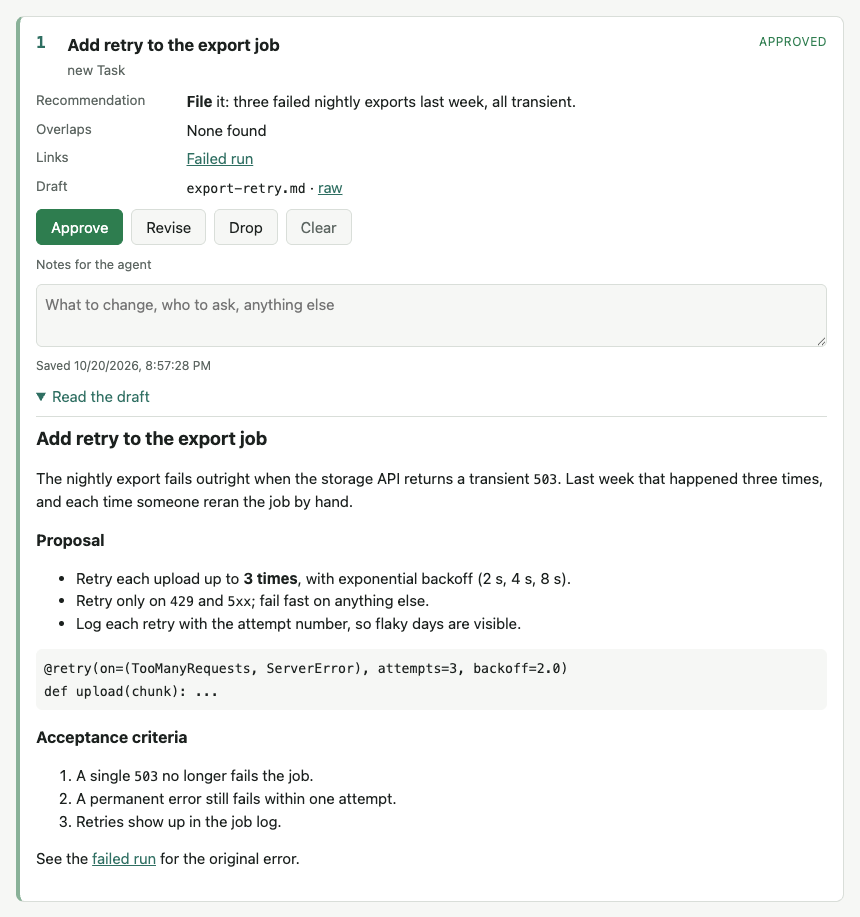
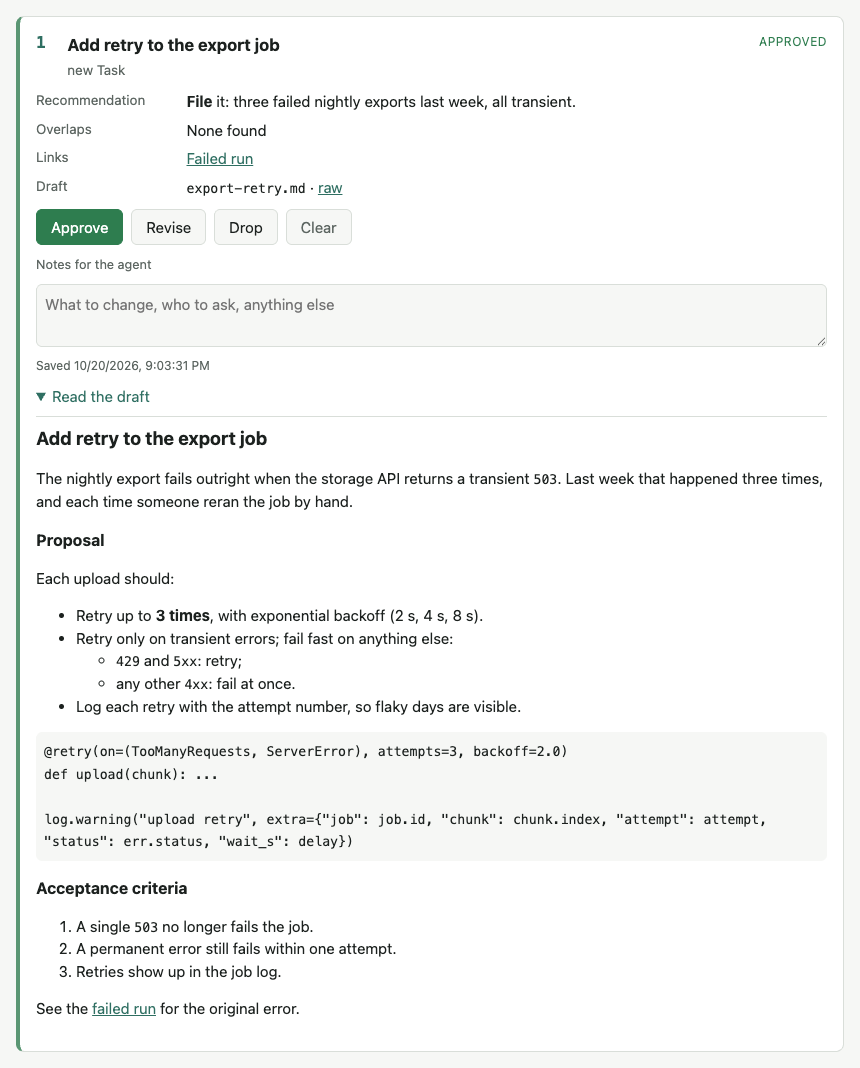
Document GitHub-style rendering and the wrap toggle; regenerate screenshots
The demo draft now has a list right after a line of text, a two-space nested
list and a long code line, and the expanded-draft shot has wrapping on.

diff --git a/docs/screenshots/make.py b/docs/screenshots/make.py
@@ -50,13 +50,18 @@ times, and each time someone reran the job by hand.
 
 ## Proposal
 
-- Retry each upload up to **3 times**, with exponential backoff (2 s, 4 s, 8 s).
-- Retry only on `429` and `5xx`; fail fast on anything else.
+Each upload should:
+- Retry up to **3 times**, with exponential backoff (2 s, 4 s, 8 s).
+- Retry only on transient errors; fail fast on anything else:
+  - `429` and `5xx`: retry;
+  - any other `4xx`: fail at once.
 - Log each retry with the attempt number, so flaky days are visible.
 
 ```python
 @retry(on=(TooManyRequests, ServerError), attempts=3, backoff=2.0)
 def upload(chunk): ...
+
+log.warning("upload retry", extra={"job": job.id, "chunk": chunk.index, "attempt": attempt, "status": err.status, "wait_s": delay})
 ```
 
 ## Acceptance criteria
@@ -245,6 +250,8 @@ def capture(chromium: str | None, pids: dict) -> None:
         p = page()
         packet(p)
         p.evaluate("document.querySelector('#export-retry details').open = true")
+        p.check("#wrap-toggle")  # the long log line wraps instead of scrolling
+        p.evaluate("document.activeElement && document.activeElement.blur()")
         # A clip of the full page, not an element shot: that scrolls, and the sticky bar would cover the card.
         box = p.locator("#export-retry").bounding_box()
         pad = 16

diff --git a/README.md b/README.md
@@ -21,7 +21,7 @@ The review lifecycle is decoupled from the rest of the conversation.
 *A packet page, in your system's light or dark theme ([light](docs/screenshots/packet-light.png),
 [dark](docs/screenshots/packet-dark.png)). The bar keeps the tally; each card holds one decision and its note.*
 
-Nothing leaves the machine. The server binds 127.0.0.1 only, and the one runtime dependency is `markdown`.
+Nothing leaves the machine. The server binds 127.0.0.1 only, and the one runtime dependency is `markdown-it-py`.
 
 ## Install
 
@@ -121,10 +121,13 @@ Overlaps = "[issue 1](https://example.com/issues/1)"
 ```
 
 Each item becomes a card. The card shows the recommendation, facts and links; **Read the draft** expands the item's
-file, rendered as markdown:
+file, rendered as GitHub-flavoured markdown (CommonMark, plus tables, strikethrough and bare-URL links), so a draft
+looks as it will on GitHub: a list can follow a line of text directly, and two-space indents nest. Long code lines
+scroll sideways; tick **Wrap long lines** in the top bar to wrap them instead (a per-browser preference, kept in
+`localStorage`):
 
 <img src="docs/screenshots/draft-expanded.png" width="600"
-     alt="One card, approved, with its draft expanded: a heading, a short proposal as a bulleted list, a code block, and numbered acceptance criteria.">
+     alt="One card, approved, with its draft expanded: a heading, a proposal as a bulleted list with a nested list, a code block whose long line wraps, and numbered acceptance criteria.">
 
 **Decisions** live beside the manifest in `review-decisions.json`:
 
@@ -174,7 +177,7 @@ test in `tests/test_server.py`, and `bin/mutation-check` breaks each rule in tur
   no dots), and item files are served only through the manifest mapping, never by filename. The manifest rejects
   absolute paths, `..`, and symlinks that resolve outside the packet.
 - Request bodies are capped at 64 KiB, notes at 20,000 characters.
-- Untrusted text is escaped: markdown renders with raw HTML disabled, and only http(s), mailto and relative links survive.
+- Untrusted text is escaped: markdown renders with raw HTML disabled, and only http(s), mailto and relative links (and image sources) survive.
   Pages also carry a strict CSP (`default-src 'none'`, script and style from the desk only), `nosniff`, `DENY` framing,
   and `no-referrer`.
 - Writes merge one item at a time under a lock and replace the file atomically (temp file, fsync, rename). A corrupt
